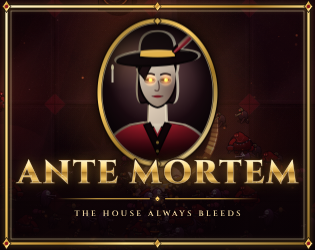
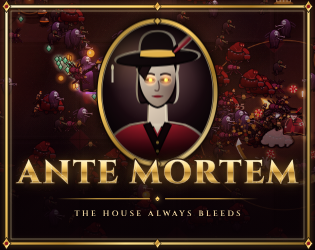
I1 (H1): re-render the cover art with the canvas HUD lifted from the clean plate
Claude-Session: https://claude.ai/code/session_01LfZkkF7Ex9CahCtvUfnFA3

diff --git a/src/core.js b/src/core.js
@@ -2020,7 +2020,7 @@ function render(){
   }
   PROF.mark('hud');
   // FEVER overlay — golden rush
-  if(feverOn){
+  if(feverOn && !window.__cleanPlate){
     // the wash is gone — fever is the WRITING, the arena stays true
     ctx.save(); ctx.font="800 26px 'Cinzel',serif"; ctx.textAlign='center';
     ctx.fillStyle='#ffd36b'; ctx.shadowColor='#ffb020'; ctx.shadowBlur=18;
@@ -2028,7 +2028,7 @@ function render(){
     ctx.restore();
   }
   // XP / RAGE — gilded gothic gauge, smooth-lerped
-  if(state==='playing'){
+  if(state==='playing' && !window.__cleanPlate){ // I1: the launch kit's clean plate lifts the canvas gauge (and the FEVER line above)
     let xw=Math.min(340,VW*0.44), xx=VW/2-xw/2, xy=VH-46; const bh=14;
     { const hr=_b4HpRect(); // B4: never under the blood bar — slide right of it, or (phones) ride just above it
       if(hr && xx<hr.r+14 && hr.t<VH-20){ const room=VW-(hr.r+14)-96;
@@ -2096,14 +2096,14 @@ function render(){
       if(PROF._ovS) ctx.fillText(PROF._ovS, VW-12, 78); }
     ctx.globalAlpha=1; }
   // house dare counter
-  if(state==='playing' && dare){
+  if(state==='playing' && dare && !window.__cleanPlate){
     ctx.font="800 15px 'Cinzel',serif"; ctx.textAlign='center';
     ctx.fillStyle=dare.got>=dare.need?'#8bff9a':'#ffd36b'; ctx.shadowColor=ctx.fillStyle; ctx.shadowBlur=10;
     ctx.fillText('⚔ '+dare.got+' / '+dare.need+' · '+dare.t.toFixed(1)+'s', VW/2, 130); ctx.shadowBlur=0;
   }
   // (the fever charge bar is retired — fever announces itself when it arrives)
   // streak counter
-  if(killStreak>=15 && state==='playing'){
+  if(killStreak>=15 && state==='playing' && !window.__cleanPlate){
     const sc=Math.min(46, 20+killStreak*0.12), pu=1+Math.max(0,streakT-1.4)*0.5;
     ctx.save(); ctx.font='800 '+(sc*pu)+"px 'Cinzel',serif"; ctx.textAlign='right';
     ctx.fillStyle=killStreak>=100?'#ff5566':(killStreak>=50?'#ffd36b':'#e8d9c0');

diff --git a/launch/tools/capture.js b/launch/tools/capture.js
@@ -162,6 +162,7 @@ const SCENES = {
     // the clean plate for cover art: the same floor a beat later with every DOM layer (HUD, banners) lifted — canvas only
     await run(page, 30); await until(page, clear, 3000);
     await page.addStyleTag({ content: '#wrap > *:not(canvas), body > *:not(#wrap):not(script) { visibility: hidden !important; }' });
+    await page.evaluate(() => { window.__cleanPlate = true; }); // the XP / RAGE gauge is painted on the canvas itself
     await shot(page, 'storm_clean', { frames: 2 });
     const n = await page.evaluate(() => enemies.length); console.error('    enemies on the floor: ' + n);
     await browser.close(); return errors;
